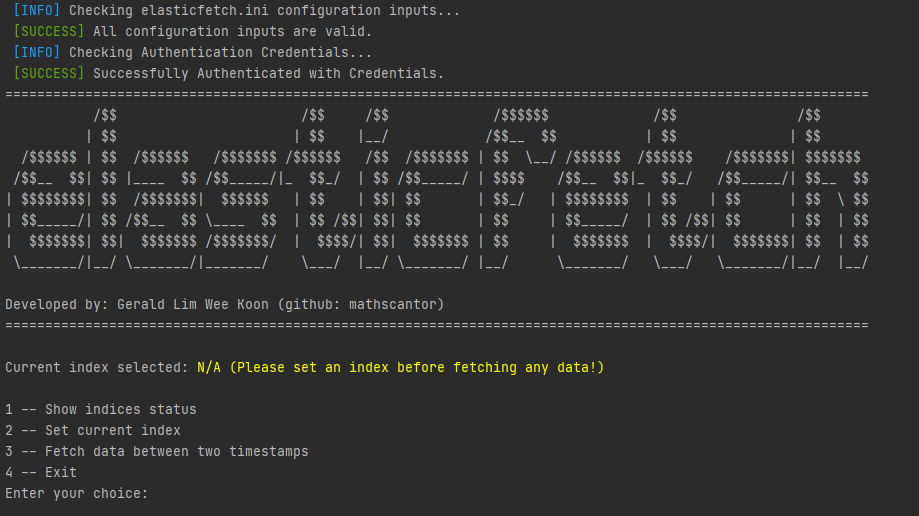
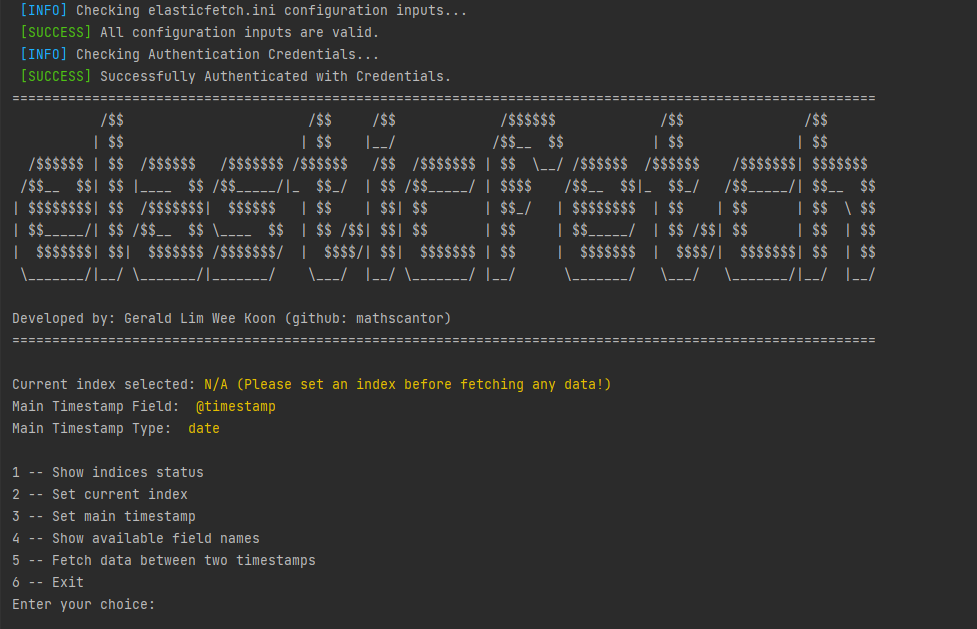
Changed header to be smaller and cleaner

Changed region(s): [[0.0, 0.0, 0.9445, 0.9922]]

diff --git a/utils/menu.py b/utils/menu.py
@@ -1,5 +1,6 @@
 import os
 
+
 class Menu:
 
     def __init__(self, request_sender, converter, input_validation, parser):
@@ -20,17 +21,15 @@ class Menu:
         self.index_name = ""
         self.main_timestamp_field_name = "@timestamp"
         self.main_timestamp_field_type = "date"
-        self.header = header = "============================================================================================================\n" \
-                                 "           /$$                       /$$     /$$             /$$$$$$             /$$               /$$      \n" \
-                                 "          | $$                      | $$    |__/            /$$__  $$           | $$              | $$      \n" \
-                                 "  /$$$$$$ | $$  /$$$$$$   /$$$$$$$ /$$$$$$   /$$  /$$$$$$$ | $$  \__/ /$$$$$$  /$$$$$$    /$$$$$$$| $$$$$$$ \n" \
-                                 " /$$__  $$| $$ |____  $$ /$$_____/|_  $$_/  | $$ /$$_____/ | $$$$    /$$__  $$|_  $$_/   /$$_____/| $$__  $$\n" \
-                                 "| $$$$$$$$| $$  /$$$$$$$|  $$$$$$   | $$    | $$| $$       | $$_/   | $$$$$$$$  | $$    | $$      | $$  \ $$\n" \
-                                 "| $$_____/| $$ /$$__  $$ \____  $$  | $$ /$$| $$| $$       | $$     | $$_____/  | $$ /$$| $$      | $$  | $$\n" \
-                                 "|  $$$$$$$| $$|  $$$$$$$ /$$$$$$$/  |  $$$$/| $$|  $$$$$$$ | $$     |  $$$$$$$  |  $$$$/|  $$$$$$$| $$  | $$\n" \
-                                 " \_______/|__/ \_______/|_______/    \___/  |__/ \_______/ |__/      \_______/   \___/   \_______/|__/  |__/\n\n" \
-                                 "Developed by: Gerald Lim Wee Koon (github: mathscantor)                                                     \n" \
-                                 "============================================================================================================\n"
+        self.header = "===============================================================\n" \
+                      "        _              _    _         __       _         _     \n" \
+                      "       | |            | |  (_)       / _|     | |       | |    \n" \
+                      "   ___ | |  __ _  ___ | |_  _   ___ | |_  ___ | |_  ___ | |__  \n" \
+                      "  / _ \| | / _` |/ __|| __|| | / __||  _|/ _ \| __|/ __|| '_ \ \n" \
+                      " |  __/| || (_| |\__ \| |_ | || (__ | | |  __/| |_| (__ | | | |\n" \
+                      "  \___||_| \__,_||___/ \__||_| \___||_|  \___| \__|\___||_| |_|\n\n" \
+                      "    Developed by: Gerald Lim Wee Koon (github: mathscantor)    \n" \
+                      "===============================================================\n"
 
     def show_menu(self):
 
@@ -112,12 +111,14 @@ class Menu:
                     if not has_printed_parent:
                         print("{:<30} {:<10} {:<30}".format(top_parent_field, field_type,
                                                             ', '.join(
-                                                                parent_field_to_type_dict[top_parent_field][field_type])))
+                                                                parent_field_to_type_dict[top_parent_field][
+                                                                    field_type])))
                         has_printed_parent = True
                     else:
                         print("{:<30} {:<10} {:<30}".format('', field_type,
                                                             ', '.join(
-                                                                parent_field_to_type_dict[top_parent_field][field_type])))
+                                                                parent_field_to_type_dict[top_parent_field][
+                                                                    field_type])))
                     print("")
 
         chosen_timestamp_name = input("Main Timestamp Name: ").strip()
@@ -135,11 +136,12 @@ class Menu:
     '''
     Lists all available fields for the current index.
     '''
+
     def show_available_fields(self):
         response = self.request_sender.get_available_fields(index_name=self.index_name)
         if response is not None:
             parent_field_to_type_dict = self.converter.convert_field_mapping_keys_pretty(index_name=self.index_name,
-                                                                                           fields_json=response)
+                                                                                         fields_json=response)
             print("{:<30} {:<10} {:<30}".format('TOP LEVEL PARENT', 'TYPE', 'ALL RELATED FIELDS'))
             print("{:<30} {:<10} {:<30}".format('----------------', '----', '------------------'))
 
@@ -148,11 +150,13 @@ class Menu:
                 for field_type in parent_field_to_type_dict[top_parent_field].keys():
                     if not has_printed_parent:
                         print("{:<30} {:<10} {:<30}".format(top_parent_field, field_type,
-                                                            ', '.join(parent_field_to_type_dict[top_parent_field][field_type])))
+                                                            ', '.join(parent_field_to_type_dict[top_parent_field][
+                                                                          field_type])))
                         has_printed_parent = True
                     else:
                         print("{:<30} {:<10} {:<30}".format('', field_type,
-                                                            ', '.join(parent_field_to_type_dict[top_parent_field][field_type])))
+                                                            ', '.join(parent_field_to_type_dict[top_parent_field][
+                                                                          field_type])))
                 print("")
 
         return
@@ -201,16 +205,18 @@ class Menu:
                 return
 
         keyword_sentences_dict = self.parser.parse_filter_raw(filter_raw=filter_raw)
-        query_bool_must_list = self.converter.convert_all_is_list_to_must_list(filter_is_list=keyword_sentences_dict["is"],
-                                                                               filter_is_gte_list=keyword_sentences_dict["is_gte"],
-                                                                               filter_is_lte_list=keyword_sentences_dict["is_lte"],
-                                                                               filter_is_gt_list=keyword_sentences_dict["is_gt"],
-                                                                               filter_is_lt_list=keyword_sentences_dict["is_lt"])
-        query_bool_must_not_list = self.converter.convert_all_is_not_list_to_must_not_list(filter_is_not_list=keyword_sentences_dict["is_not"],
-                                                                                           filter_is_not_gte_list=keyword_sentences_dict["is_not_gte"],
-                                                                                           filter_is_not_lte_list=keyword_sentences_dict["is_not_lte"],
-                                                                                           filter_is_not_gt_list=keyword_sentences_dict["is_not_gt"],
-                                                                                           filter_is_not_lt_list=keyword_sentences_dict["is_not_lt"])
+        query_bool_must_list = self.converter.convert_all_is_list_to_must_list(
+            filter_is_list=keyword_sentences_dict["is"],
+            filter_is_gte_list=keyword_sentences_dict["is_gte"],
+            filter_is_lte_list=keyword_sentences_dict["is_lte"],
+            filter_is_gt_list=keyword_sentences_dict["is_gt"],
+            filter_is_lt_list=keyword_sentences_dict["is_lt"])
+        query_bool_must_not_list = self.converter.convert_all_is_not_list_to_must_not_list(
+            filter_is_not_list=keyword_sentences_dict["is_not"],
+            filter_is_not_gte_list=keyword_sentences_dict["is_not_gte"],
+            filter_is_not_lte_list=keyword_sentences_dict["is_not_lte"],
+            filter_is_not_gt_list=keyword_sentences_dict["is_not_gt"],
+            filter_is_not_lt_list=keyword_sentences_dict["is_not_lt"])
 
         data_json_list = self.request_sender.get_fetch_elastic_data_between_ts1_ts2(index_name=self.index_name,
                                                                                     num_logs=num_logs,
@@ -232,12 +238,8 @@ class Menu:
         file_path = "datasets/" + filename
         os.makedirs(os.path.dirname(file_path), exist_ok=True)
         if file_path.lower().endswith(".csv"):
-            self.converter.convert_json_data_to_csv(data_json_list=data_json_list, fields_list=fields_list, file_path=file_path)
+            self.converter.convert_json_data_to_csv(data_json_list=data_json_list, fields_list=fields_list,
+                                                    file_path=file_path)
         elif file_path.lower().endswith(".json"):
             self.converter.convert_json_data_to_json(data_json_list=data_json_list, file_path=file_path)
         return
-
-
-
-
-

diff --git a/README.md b/README.md
@@ -27,13 +27,51 @@ Edit **elasticfetch.ini** and set it to the correct : <br />
 ```sh
 python3 elasticfetch.py
 ```
-![main_menu](./screenshots/main_menu.png)
+```text
+Current index selected:  N/A (Please set an index before fetching any data!)
+Main Timestamp Field:  @timestamp
+Main Timestamp Type:  date
 
-### Step 3 (Optional) - Listing indices status
-![indices_status](./screenshots/indices_status.png)
+1 -- Show indices status
+2 -- Set current index
+3 -- Set main timestamp
+4 -- Show available field names
+5 -- Fetch data between two timestamps
+6 -- Exit
+```
+
+### Step 3 (Optional) - Show indices status
+```text
+health status index                                           uuid                   pri rep docs.count docs.deleted store.size pri.store.size
+yellow open   .internal.alerts-security.alerts-default-000001 ######################   1   1       1094            0      3.7mb          3.7mb
+yellow open   .internal.alerts-security.alerts-default-000002 ######################   1   1        213            0      1.5mb          1.5mb
+yellow open   .internal.alerts-security.alerts-default-000003 ######################   1   1        264            0      1.5mb          1.5mb
+yellow open   .internal.alerts-security.alerts-default-000004 ######################   1   1        237            0      2.2mb          2.2mb
+yellow open   .internal.alerts-security.alerts-default-000005 ######################   1   1         33            0    614.5kb        614.5kb
+yellow open   .items-default-000001                           ######################   1   1          0            0       225b           225b
+yellow open   .lists-default-000001                           ######################   1   1          0            0       225b           225b
+yellow open   auditbeat-8.0.1                                 ######################   1   1   40024180            0     25.9gb         25.9gb
+yellow open   auditbeat-8.1.0                                 ######################   1   1   12285275            0      7.9gb          7.9gb
+yellow open   auditbeat-8.1.2                                 ######################   1   1    4298254            0      3.1gb          3.1gb
+yellow open   filebeat-7.15.2-2022.03.11-000001               ######################   1   1       1008            0    455.6kb        455.6kb
+yellow open   filebeat-7.15.2-2022.04.10-000002               ######################   1   1          0            0       225b           225b
+yellow open   filebeat-7.15.2-2022.05.10-000003               ######################   1   1          0            0       225b           225b
+yellow open   filebeat-7.15.2-2022.06.09-000004               ######################   1   1          0            0       225b           225b
+yellow open   filebeat-7.15.2-2022.07.09-000005               ######################   1   1          0            0       225b           225b
+yellow open   filebeat-8.0.1                                  ######################   1   1   15815910            0        9gb            9gb
+yellow open   filebeat-8.1.0                                  ######################   1   1   22087647            0     13.6gb         13.6gb
+yellow open   filebeat-8.1.2                                  ######################   1   1    6655497            0      4.1gb          4.1gb
+green  open   metrics-endpoint.metadata_current_default       ######################   1   0          0            0       225b           225b
+yellow open   packetbeat-8.0.1                                ######################   1   1  215773987            0     92.1gb         92.1gb
+yellow open   packetbeat-8.1.0                                ######################   1   1   21195763            0      9.8gb          9.8gb
+yellow open   packetbeat-8.1.2                                ######################   1   1   52814104            0     20.8gb         20.8gb
+yellow open   winlogbeat-8.0.1                                ######################   1   1  102336389            0    103.9gb        103.9gb
+```
 
 ### Step 4 - Choosing your index to get data from.
-![setting_index](./screenshots/setting_index.png) <br />
+```text
+
+```
 In the above example, I have chosen the winlogbeat-8.0.1 index.
 Once you have chosen your index, it will be shown that you are fetching from that particular index
 ### Step 5 - Fetching data from a chosen index.
